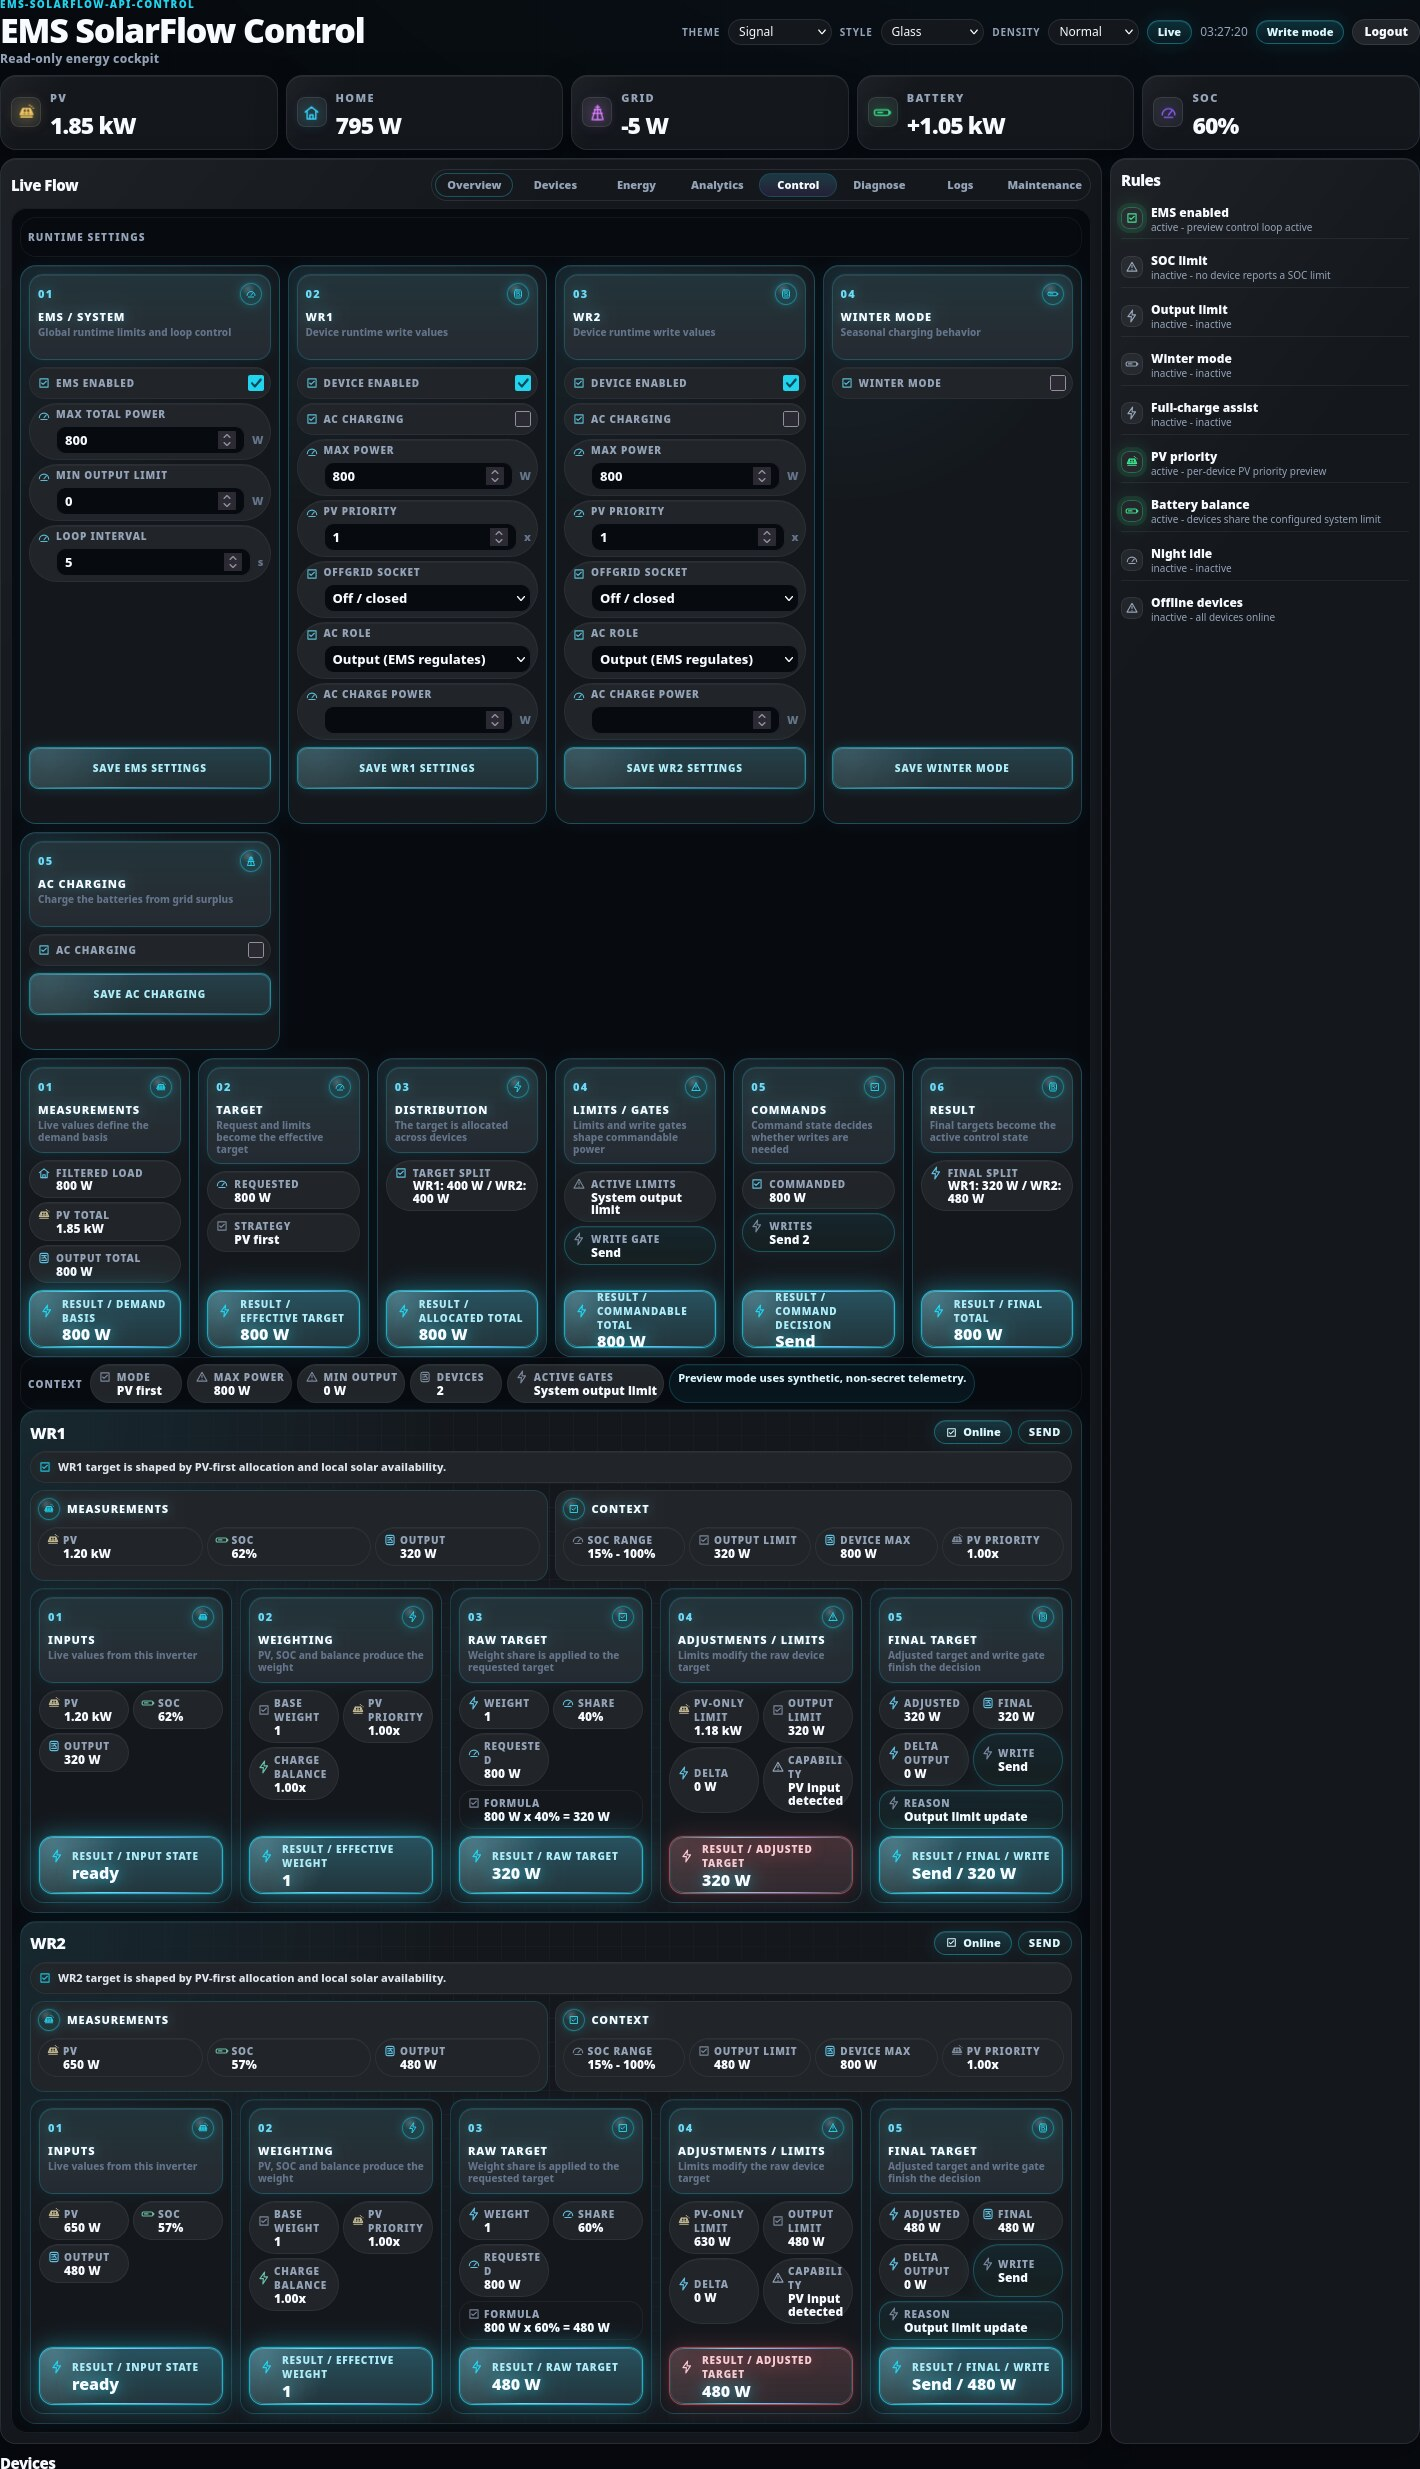
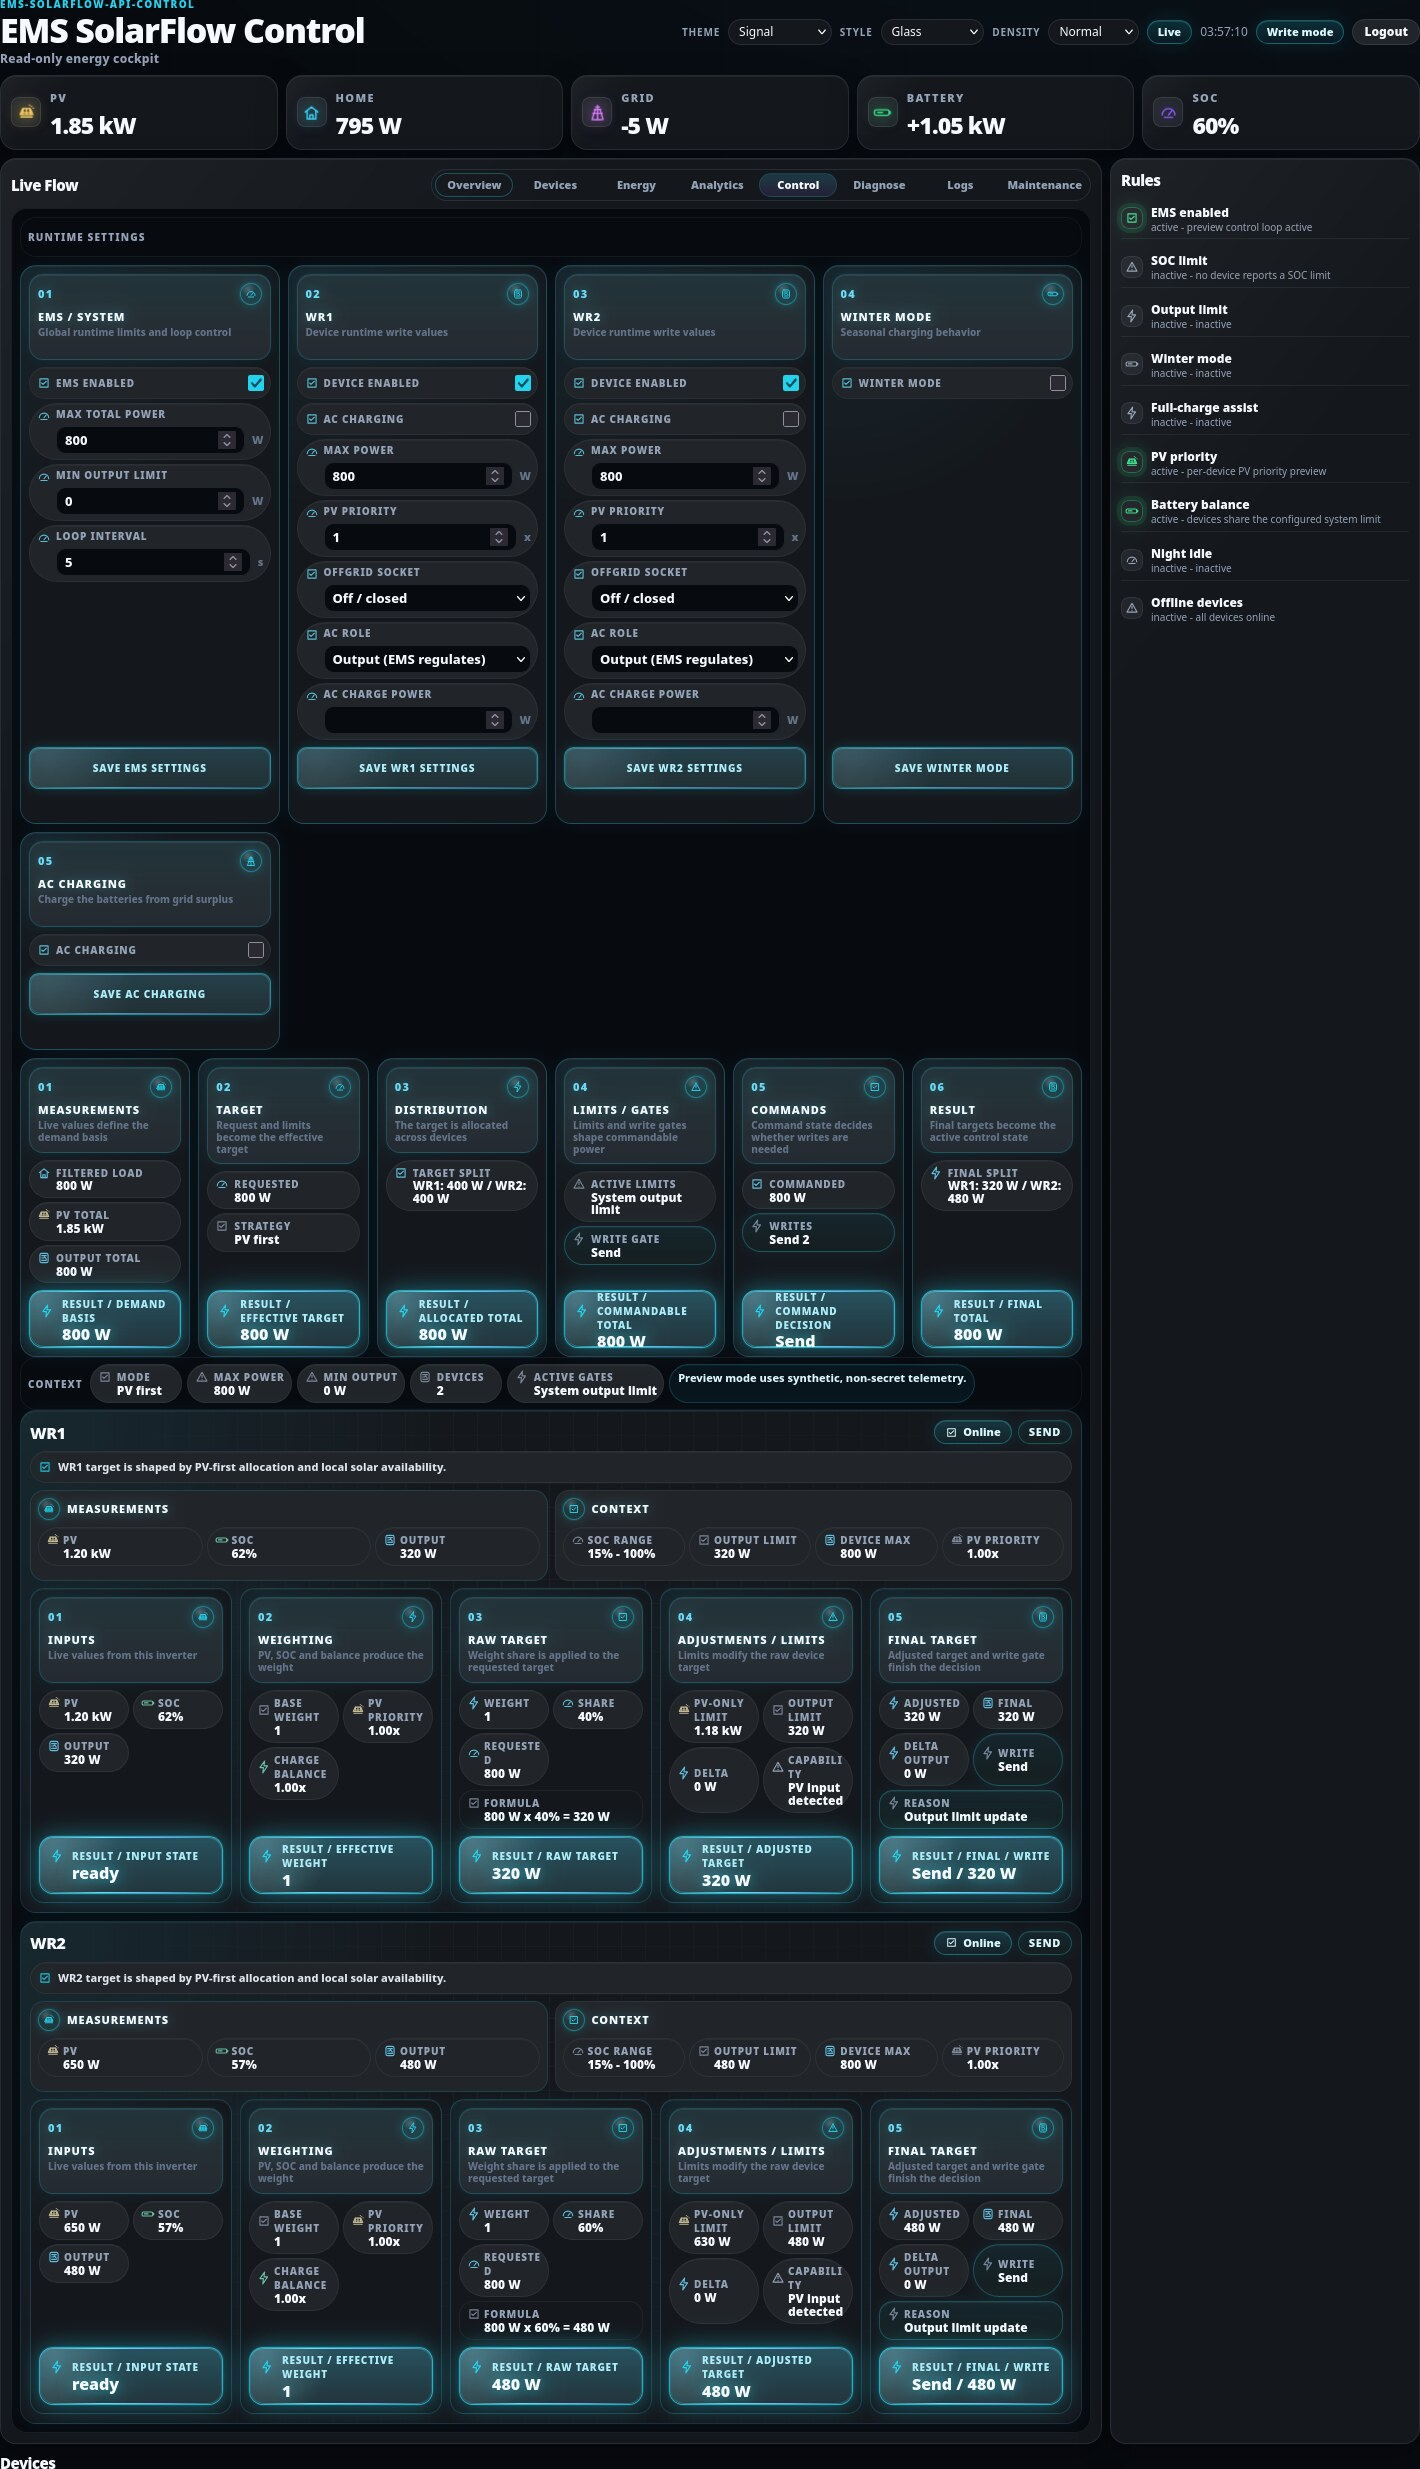
fix(dashboard): a device's limits stage shows blocked only when the EMS says it cannot export
The Adjustments / Limits result of every device card was red. Its tone
read capability_reason, which the EMS always sets: "normal", or the
firmware signals behind the capability check such as
pv_evidence,ac_evidence. Those are the evidence, not a verdict, so a
device nothing limited was shown as blocked.

The EMS's verdict is can_export: false, which the capability check,
AC input mode, the full-charge assist's hold, a disabled discharge and
winter's solar-charge hold all set, and which holds the device's target
at zero. The stage now turns red on that alone; a limit that merely
binds leaves it as it is.

Two new tests in test_dashboard_control_labels_frontend.py render an
explanation the EMS's own calculate_targets builds: without this change
the devices nothing limited show blocked. A third renders a real EMS
cycle with an active full-charge assist and pins that the device it
holds is still shown blocked. The user guide says what the red result
means, the assist among its causes, and the Control screenshots are
re-taken.

Changed region(s): [[0.4648, 0.7173, 0.6197, 0.7797], [0.4648, 0.9356, 0.6197, 0.998]]

diff --git a/dashboard/static/app.js b/dashboard/static/app.js
@@ -2836,7 +2836,7 @@ function controlDeviceDecisionFlow(device, explain, weightContext, writeDecision
       resultLabel: "Adjusted target",
       resultValue: controlAdjustedTarget(device),
       resultFormatter: watts,
-      resultTone: device.capability_reason ? "blocked" : "",
+      resultTone: device.can_export === false ? "blocked" : "",
     },
     {
       title: "Final Target",

diff --git a/tests/test_dashboard_control_labels_frontend.py b/tests/test_dashboard_control_labels_frontend.py
@@ -13,12 +13,16 @@ walk covers the forms ems/ uses to put a code into an explanation, and fails on
 the binding forms it knows it cannot follow unless ``UNREADABLE`` names them. It
 does not prove completeness against every Python construct: a code passed in a
 form the walk does not know can still go unseen.
+
+A device card says what the EMS decided about the device in the same terms: a
+stage shows as blocked only where the EMS's explanation blocks it.
 """
 
 import ast
 import dataclasses
 import functools
 import json
+import re
 import shutil
 import subprocess
 from pathlib import Path
@@ -26,7 +30,9 @@ from pathlib import Path
 import pytest
 
 from ems.runtime_intents import DeviceRuntimeRole
+from ems.target_control import calculate_targets, detect_capabilities
 from ems.winter_reserve import SOLAR_CHARGE_REASON
+from tests.test_write_gates import device, state
 
 pytestmark = [
     pytest.mark.contract,
@@ -628,3 +634,77 @@ def test_a_parked_device_explains_itself_in_a_sentence():
     assert "below min soc" not in html
     assert "already parked" not in html
     assert "WR1 is parked at the minimum output" in html
+
+
+def _device_cards(html):
+    """Each device card's HTML, by the name its card carries."""
+    cards = {}
+    for match in re.finditer(r'data-control-device="([^"]*)"', html):
+        end = html.find('data-control-device="', match.end())
+        cards[match.group(1)] = html[match.start(): end if end >= 0 else len(html)]
+    return cards
+
+
+def _limits_result_blocked(card):
+    stage = re.search(
+        r'<section class="control-stage control-stage-limits"[\s\S]*?</section>', card
+    )
+    assert stage, "the card has an Adjustments / Limits stage"
+    result = re.search(r'class="control-result control-stage-result([^"]*)"', stage.group(0))
+    assert result, "the stage has a result"
+    return "tone-blocked" in result.group(1).split()
+
+
+def _ems_explanation(states):
+    names = [f"WR{index + 1}" for index in range(len(states))]
+    _targets, _current, _new, explanation = calculate_targets(
+        0,
+        states,
+        1600,
+        device_configs=[device(name) for name in names],
+        capabilities=[detect_capabilities(report) for report in states],
+        requested_total=600,
+        explain=True,
+    )
+    return explanation.to_dict()
+
+
+def test_a_device_the_ems_did_not_limit_is_not_shown_blocked():
+    explanation = _ems_explanation([
+        state(solar=500, output=300, output_limit=300),
+        state(solar=0, soc=60),
+    ])
+    reasons = {name: entry["capability_reason"] for name, entry in explanation["devices"].items()}
+    assert all(reasons.values()), reasons
+    assert all(entry["can_export"] for entry in explanation["devices"].values())
+
+    cards = _device_cards(_control_html(explanation))
+
+    assert sorted(cards) == ["WR1", "WR2"]
+    assert {name: _limits_result_blocked(card) for name, card in cards.items()} == {
+        "WR1": False,
+        "WR2": False,
+    }
+
+
+def test_a_device_the_full_charge_assist_holds_is_shown_blocked_at_its_limits(tmp_path):
+    explanation = _assist_held_explanation(tmp_path)
+    assert explanation["devices"]["WR1"]["can_export"] is False
+
+    cards = _device_cards(_control_html(explanation))
+
+    assert _limits_result_blocked(cards["WR1"]) is True
+
+
+def test_a_device_the_ems_cannot_export_from_is_shown_blocked_at_its_limits():
+    explanation = _ems_explanation([
+        state(solar=500, output=300, output_limit=300),
+        state(solar=0, soc_limit=2, dc_status=0, ac_status=0),
+    ])
+    assert explanation["devices"]["WR2"]["can_export"] is False
+    assert explanation["devices"]["WR2"]["limiting_reason"] == "cannot_export"
+
+    cards = _device_cards(_control_html(explanation))
+
+    assert _limits_result_blocked(cards["WR1"]) is False
+    assert _limits_result_blocked(cards["WR2"]) is True

diff --git a/docs/developer/review-coverage.md b/docs/developer/review-coverage.md
@@ -324,6 +324,7 @@ Review rounds: twenty-four, each on a fixed commit by a reviewer that had not wr
 | FR9 | low | The Control view printed the EMS's codes: the strategy as `pv_first` in the context strip and `pv first` in the Target stage, limit names, limiting and write reasons as `runtime role ac input`, `pv only limit` or `output limit update`, and a device's capability signals as `pv evidence,output evidence`. The one label for an AC input block was keyed on `ac_input_runtime_role` while the EMS sends `runtime_role_ac_input`, so it never showed; decision reasons such as `night_min_soc_idle` had no sentence | fix(dashboard): the Control view names what the EMS decided instead of printing its codes |
 | FR11 | low | The Analytics KPI labels named the period button whatever the KPIs integrated: with a custom range or a zoom the cards still read `PV · 24h` over a window of three days or ninety minutes, PV Peak named no window at all, and with a device selected Current SoC showed the system average beside a Runtime Role and energy KPIs for that device | fix(dashboard): the Analytics KPIs name the window they integrate and the device they describe |
 | FR12 | low | The Analytics and History charts ignored a palette switch: a canvas cannot read a custom property, the series, axis and grid colours were resolved once when a chart was built, and a refresh reused the chart with its old colours until its structure changed or the page was reloaded; the grid was a white literal (`rgba(255,255,255,0.06)`) on every palette | fix(dashboard): the charts take the palette's colours, and a palette switch repaints them |
+| FR18 | low | The Control view showed every device's Adjustments / Limits result as blocked: its tone read `capability_reason`, which the EMS always sets (`normal`, or the firmware signals behind the capability check such as `pv_evidence,ac_evidence`), so a device nothing limited was red (found in review 4 while fixing FR9/FR12; already on main) | fix(dashboard): a device's limits stage shows blocked only when the EMS says it cannot export |
 
 ## Decisions
 

diff --git a/docs/user/dashboard/control.md b/docs/user/dashboard/control.md
@@ -165,6 +165,12 @@ you, this is where to look.
 | **CAPABILITY** | Detected capability, e.g. *PV input detected* |
 | **RESULT / ADJUSTED TARGET** | After the limits |
 
+The result turns red only when EMS reports that the device cannot export this
+cycle: its telemetry shows no way out, it is in AC input mode, the full-charge
+assist holds it, discharge is switched off for it, or winter mode holds its PV
+for charging. **CAPABILITY** then names why. A limit that binds, such as the
+PV-only limit, does not turn it red.
+
 ### 05 — Final target
 
 *Adjusted target and write gate finish the decision.*
